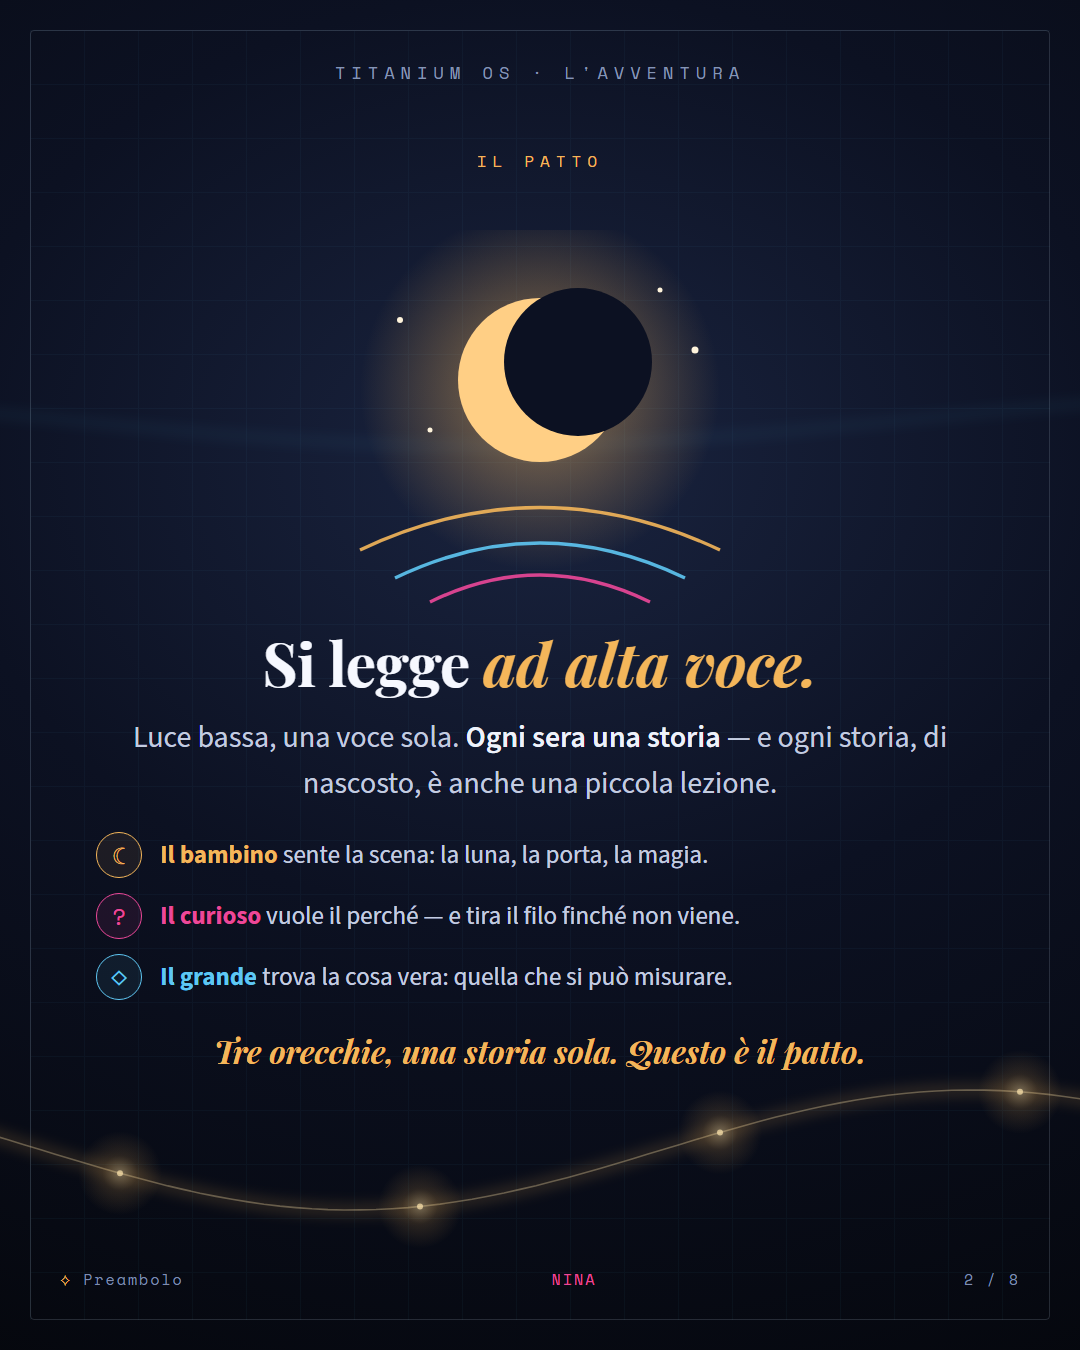
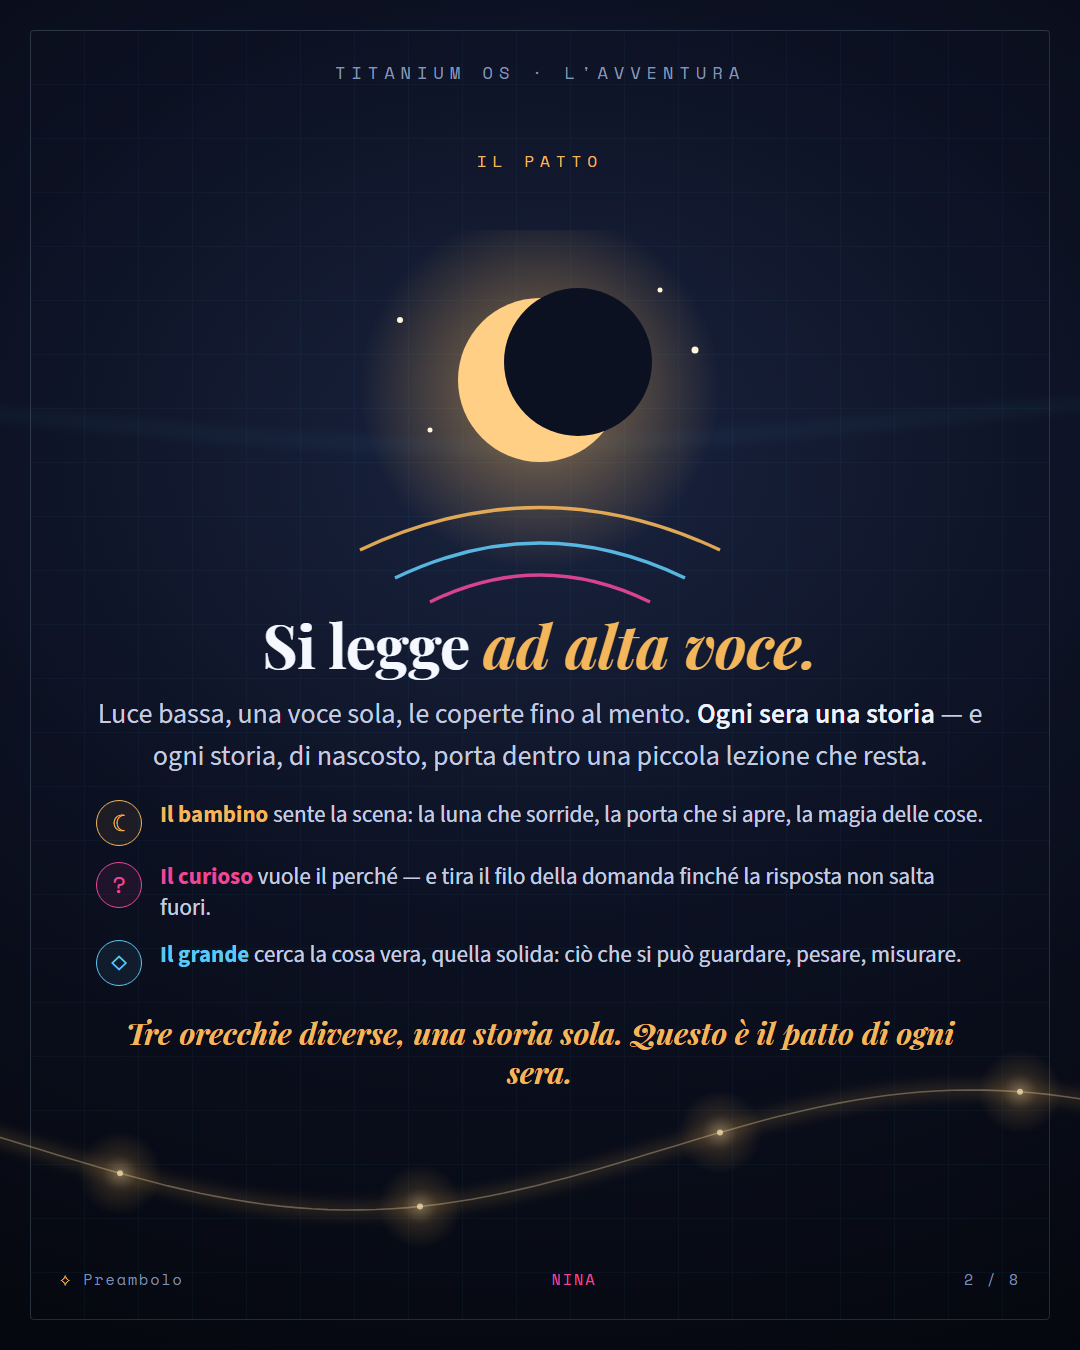
feat(nina): PRE_01 v7 — testo arricchito su 8 slide
Intro a 2 frasi, punti illustrati piu' pieni, sigilli piu' evocativi su 2-8.
Box testo allargato + font ribilanciati (no overflow, slide 8 con CTA ok).
PNG 1-8 rigenerati. v7 in _VERSIONI/ + promossa a carosello.html.

Changed region(s): [[0.0917, 0.4667, 0.9167, 0.8089]]

diff --git a/DA_FARE_FATTO.md b/DA_FARE_FATTO.md
@@ -1,6 +1,8 @@
 <!-- TOC -->
 
 - [DA FARE / COSA HO FATTO  la BUSSOLA viva di TITANIUM_OS](#da-fare-cosa-ho-fatto-la-bussola-viva-di-titaniumos)
+  - [Sessione 49  25/06/2026  PRE_01: stile buonanotte (slide 2)  flusso donda continuo tra le slide](#sessione-49-25062026-pre01-stile-buonanotte-slide-2-flusso-donda-continuo-tra-le-slide)
+  - [Sessione 48  25/06/2026  Adobe Express  caroselli di Nina (porta  carosello, preambolo)](#sessione-48-25062026-adobe-express-caroselli-di-nina-porta-carosello-preambolo)
   - [Sessione 47  25/06/2026  Filone visivo RETE: orfanisalute, RETE viva, transizioni morbide (Konik  Hermes)](#sessione-47-25062026-filone-visivo-rete-orfanisalute-rete-viva-transizioni-morbide-konik-hermes)
   - [Sessione 46  24-25/06/2026  RAG v4.2 (heading-aware  snapshot  GraphRAG-lite)  _ARCHIVIO fuori canone  Nina auto](#sessione-46-24-25062026-rag-v42-heading-aware-snapshot-graphrag-lite-archivio-fuori-canone-nina-auto)
   - [Sessione 45  24/06/2026  CRITICHE azzerate (3 fonti)  de-hardcode benen  loop autonomo](#sessione-45-24062026-critiche-azzerate-3-fonti-de-hardcode-benen-loop-autonomo)
@@ -95,8 +97,11 @@ definire lo stile narrativo, poi propagare.**
 - [✓] **Integrato in RAG + Obsidian**: nota `MENTE/SESSIONI/2026-06-25_caroselli-preambolo-flusso-stile.md`
   (wikilink a [[NINA_STILE_E_PIANO]] ecc.) → `rag --incremental` (+add:1, linkgraph 484 note/5611 archi,
   semantico=bm25=24673), retrieval verificato score 0.99.
+- [✓] **v7 — testo arricchito** (richiesta Matteo): intro a 2 frasi, punti illustrati più pieni,
+  sigilli più evocativi su tutte le slide 2-8; box testo allargato + font ribilanciati (no overflow,
+  slide 8 con CTA verificata a piena risoluzione). PNG 1-8 rigenerati. ATTUALE = `carosello.html`.
 - [ ] **Prossimo (per Matteo)**: rivedere le 8 slide → se ok, export Adobe Express (readiness skill prima).
-  Eventuale ritocco onda (ampiezza/intensità) o scelta finale v5 vs v4.
+  Eventuale ritocco onda (ampiezza/intensità) o scelta finale v5 sfumata vs v4 intreccio.
 
 ---
 

diff --git a/CONTENT_ENGINE/DATABASE/MONDO/POSTER/CAROSELLI/PRE_01/_VERSIONI/INDEX.md b/CONTENT_ENGINE/DATABASE/MONDO/POSTER/CAROSELLI/PRE_01/_VERSIONI/INDEX.md
@@ -1,3 +1,12 @@
+<!-- TOC -->
+
+- [PRE_01  Versioni del carosello Il Mondo di Nina](#pre01-versioni-del-carosello-il-mondo-di-nina)
+  - [Il concetto di flusso continuo](#il-concetto-di-flusso-continuo)
+  - [Densità testo (decisa 25/06, Matteo)](#densità-testo-decisa-2506-matteo)
+  - [Prossimo](#prossimo)
+
+<!-- /TOC -->
+
 # PRE_01 — Versioni del carosello "Il Mondo di Nina"
 
 *Archivio additivo: ogni stato di design è salvato qui, niente si sovrascrive.*
@@ -8,8 +17,11 @@
 |----------|-------|------------------|-------|
 | **v1_originale-magra** | Lo stato di partenza (sess #48): slide 2 con lead + 1 paragrafo | nessuno (filo dritto in basso) | archiviata |
 | **v2_buonanotte-no-flusso** | Stile "buonanotte" ricco: apertura calda + 3 orecchie come parole illustrate + sigillo | nessuno (filo dritto) | archiviata |
-| **v3_flusso-onda-oro** | v2 + onda d'oro continua in basso con luci che scorrono | onda sinusoidale oro (1 filo) | candidata |
-| **v4_intreccio-atomi-bit** | v2 + due fili intrecciati oro(Atomi)↔ciano(Bit), Giuntura ⟡ agli incroci | doppio filo intrecciato (significativo) | candidata |
+| **v3_flusso-onda-oro** | v2 + onda d'oro continua in basso con luci che scorrono | onda sinusoidale oro (1 filo) | superata |
+| **v4_intreccio-atomi-bit** | v2 + due fili intrecciati oro(Atomi)↔ciano(Bit), Giuntura ⟡ agli incroci | doppio filo intrecciato (significativo) | alternativa viva |
+| **v5_flusso-onda-sfumata** | v3 ma onda **sfumata** (alone soffuso/blur, meno netta) | onda morbida diffusa | ← direzione scelta |
+| **v6_propagato-completo** | flusso sfumato + stile buonanotte su **tutte le 8 slide** | onda sfumata su 1-8 | superata da v7 |
+| **v7_arricchito-testo** | v6 con **più testo** (intro 2 frasi, punti più pieni, sigilli più evocativi) | onda sfumata su 1-8 | **ATTUALE** (= `carosello.html`) |
 
 ## Il concetto di "flusso continuo"
 L'onda è calcolata sulla **posizione globale** `x_glob = (n-1)·1080 + x_locale`: essendo una
